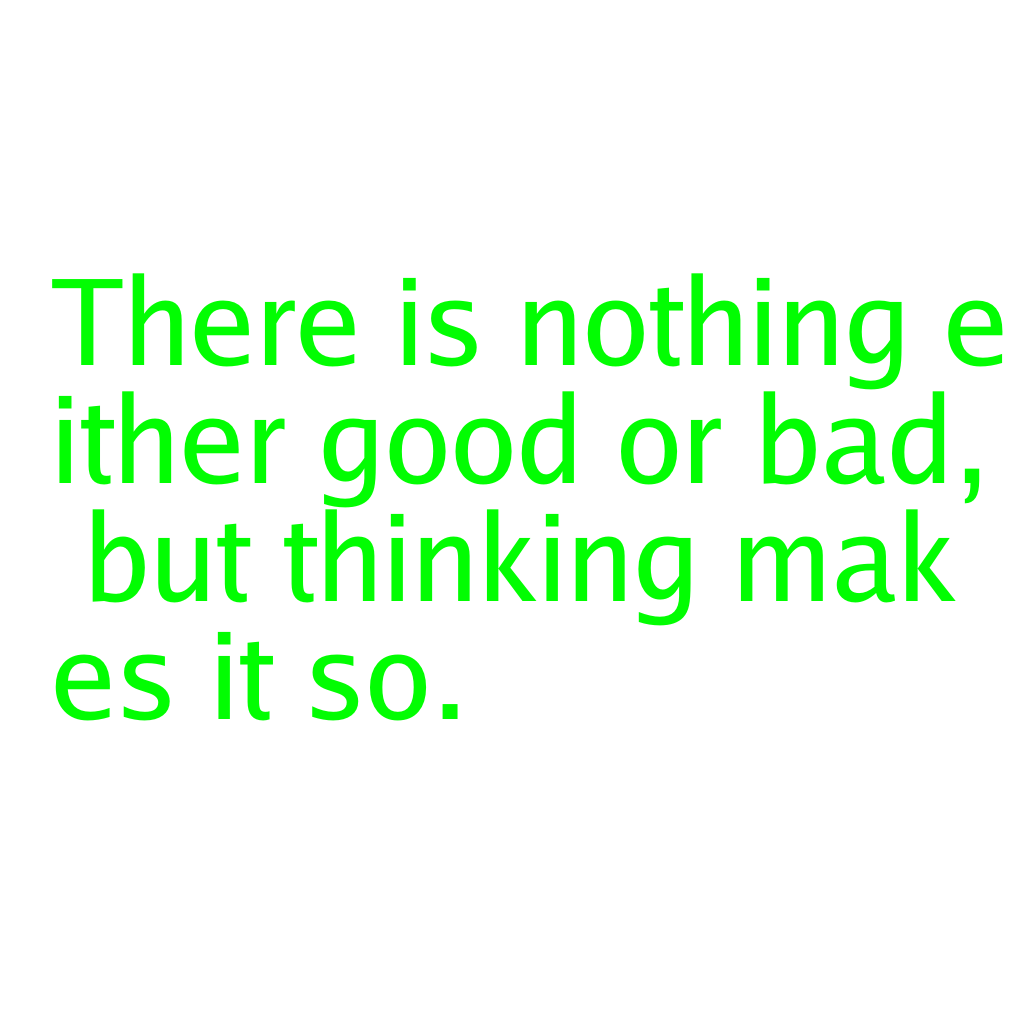
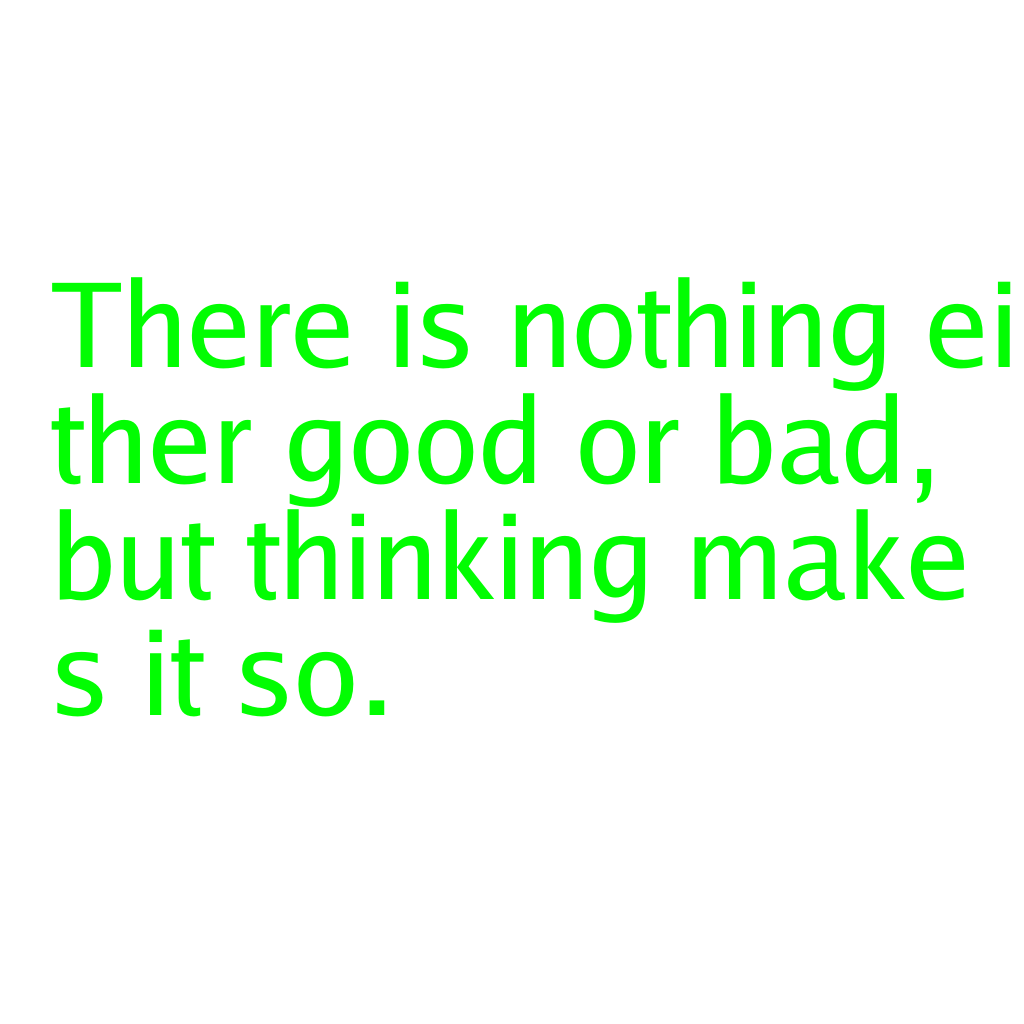
add two options.
- align option.
- just option.

Changed region(s): [[0.0312, 0.25, 1.0, 0.7188], [0.0625, 0.25, 0.3438, 0.375], [0.375, 0.25, 0.4688, 0.375]]

diff --git a/wordimg/word_image.go b/wordimg/word_image.go
@@ -17,6 +17,10 @@ import (
 	"golang.org/x/image/math/fixed"
 )
 
+type Generator interface {
+	GenerateImage(w io.Writer, message string, op ...Option) error
+}
+
 type generator struct {
 	randFunc func() float64
 	colorGen *colorGenerator
@@ -48,34 +52,51 @@ func (g *generator) GenerateImage(w io.Writer, message string, op ...Option) err
 	if err != nil {
 		return err
 	}
-	drawer.drawMessage(message)
+	drawer.drawMessage(message, conf)
 	if err := drawer.writeImage(w); err != nil {
 		return err
 	}
 	return nil
 }
 
-// rand retun 0.7 ~ 1.0.
+// rand retun 0.5 ~ 1.0.
 func (g *generator) rand() float64 {
-	return 0.7 + 0.3*g.randFunc()
+	return 0.5 + 0.5*g.randFunc()
 }
 
-func (g *generator) calcFontSize(message string, width, height int) float64 {
-	wordSize := math.Sqrt(float64(width * height / utf8.RuneCountInString(message)))
-	ww := width / int(wordSize) * int(wordSize)
-	if width == ww {
+func (g *generator) calcFontSize(message string, c config) float64 {
+	wordSize := math.Sqrt(float64(c.width * c.height / utf8.RuneCountInString(message)))
+	ww := c.width / int(wordSize) * int(wordSize)
+	if c.width == ww {
 		return wordSize * g.rand()
 	}
-	return math.Sqrt(float64(ww*height/utf8.RuneCountInString(message))) * g.rand()
+	return math.Sqrt(float64(ww*c.height/utf8.RuneCountInString(message))) * g.rand()
+}
+
+func (*generator) justFontSize(message string, fontSet *truetype.Font, c config) float64 {
+	wordSize := float64(c.width * c.justLine / utf8.RuneCountInString(message))
+	widthFix := fixed.Int26_6(int(float64(c.width*c.justLine)*0.9) << 6)
+
+	for face := truetype.NewFace(fontSet, &truetype.Options{Size: wordSize}); font.MeasureString(face, message) < widthFix; wordSize++ {
+		face = truetype.NewFace(fontSet, &truetype.Options{Size: wordSize})
+	}
+	return wordSize - 1
 }
 
 func (g *generator) prepareDrawer(message string, config config) (drawer *wordDrawer, err error) {
-	// wordSize := math.Sqrt(float64(config.width*config.height/utf8.RuneCountInString(message))) * g.rand()
+	fontSet, err := truetype.Parse(g.font)
+	if err != nil {
+		return nil, err
+	}
+
 	var fontSize float64
-	if config.fontSize > 0 {
+	switch {
+	case config.justLine > 0:
+		fontSize = g.justFontSize(message, fontSet, config)
+	case config.fontSize > 0:
 		fontSize = float64(config.fontSize)
-	} else {
-		fontSize = g.calcFontSize(message, config.width, config.height)
+	default:
+		fontSize = g.calcFontSize(message, config)
 	}
 
 	var col color.RGBA
@@ -85,10 +106,6 @@ func (g *generator) prepareDrawer(message string, config config) (drawer *wordDr
 		col = g.colorGen.randColor()
 	}
 
-	fontSet, err := truetype.Parse(g.font)
-	if err != nil {
-		return nil, err
-	}
 	drawer = &wordDrawer{
 		Drawer: &font.Drawer{
 			Dst: image.NewRGBA(image.Rect(0, 0, config.width, config.height)),
@@ -113,7 +130,7 @@ func (g *generator) prepareDrawer(message string, config config) (drawer *wordDr
 	return
 }
 
-func (d *wordDrawer) drawMessage(message string) {
+func (d *wordDrawer) drawMessage(message string, c config) {
 	var sb strings.Builder
 	for _, char := range message {
 		advance := d.MeasureString(sb.String() + string(char))
@@ -125,6 +142,14 @@ func (d *wordDrawer) drawMessage(message string) {
 		}
 		sb.WriteRune(char)
 	}
+	if c.align == alignLeft {
+		d.DrawString(sb.String())
+		return
+	}
+
+	advance := d.MeasureString(sb.String())
+	paddingLeft := (d.widthFix - advance) / 2
+	d.Dot = d.Dot.Add(freetype.Pt(paddingLeft.Ceil(), 0))
 	d.DrawString(sb.String())
 }
 

diff --git a/wordimg/word_image_test.go b/wordimg/word_image_test.go
@@ -78,6 +78,53 @@ func TestGenerator_GenrateImage(t *testing.T) {
 				err:       nil,
 			},
 		},
+		{
+			"just 1 line",
+			given{
+				message: "goodbye thank you",
+				randI:   0,
+				randF:   0,
+				options: []wordimg.Option{
+					wordimg.WithColor(&color.RGBA{255, 0, 255, 255}),
+					wordimg.WithJustLine(1),
+				},
+			},
+			want{
+				imagePath: "just1line.png",
+				err:       nil,
+			},
+		},
+		{
+			"just 2 line",
+			given{
+				message: "goodbye thank you",
+				randI:   0,
+				randF:   0,
+				options: []wordimg.Option{
+					wordimg.WithColor(&color.RGBA{255, 0, 255, 255}),
+					wordimg.WithJustLine(2),
+				},
+			},
+			want{
+				imagePath: "just2line.png",
+				err:       nil,
+			},
+		},
+		{
+			"text align center",
+			given{
+				message: "good!",
+				randI:   0,
+				randF:   0,
+				options: []wordimg.Option{
+					wordimg.WithAlignCenter(),
+				},
+			},
+			want{
+				imagePath: "align_center.png",
+				err:       nil,
+			},
+		},
 	}
 	rand := rand.New(rand.NewSource(0))
 	for _, tt := range tests {

diff --git a/cmd/server/handler.go b/cmd/server/handler.go
@@ -1,7 +1,6 @@
 package main
 
 import (
-	"io"
 	"log"
 	"math/rand"
 	"net/http"
@@ -12,18 +11,14 @@ import (
 	"github.com/komem3/word_rand_img/wordimg"
 )
 
-type generator interface {
-	GenerateImage(w io.Writer, message string, op ...wordimg.Option) error
-}
-
 type wordImgHandler struct {
-	generator
+	wordimg.Generator
 }
 
 func wordImgHandleGroup(r chi.Router, fontData []byte) {
 	rand := rand.New(rand.NewSource(time.Now().UnixNano()))
 	h := &wordImgHandler{
-		generator: wordimg.NewGenerator(rand, fontData),
+		Generator: wordimg.NewGenerator(rand, fontData),
 	}
 	r.Get("/", h.radnImage)
 }
@@ -69,7 +64,7 @@ func (h *wordImgHandler) radnImage(w http.ResponseWriter, r *http.Request) {
 	}
 
 	w.WriteHeader(http.StatusOK)
-	if err := h.generator.GenerateImage(w, message, options...); err != nil {
+	if err := h.GenerateImage(w, message, options...); err != nil {
 		log.Printf("[ERROR] generate: %+v\n", err)
 		w.WriteHeader(http.StatusInternalServerError)
 		if _, err := w.Write([]byte("internal server error")); err != nil {

diff --git a/wordimg/options.go b/wordimg/options.go
@@ -2,14 +2,22 @@ package wordimg
 
 import "image/color"
 
+type align int
+
+const (
+	alignLeft align = iota + 1
+	alignCenter
+)
+
 type (
 	Option func(*config)
-
 	config struct {
 		width    int
 		height   int
 		color    *color.RGBA
 		fontSize int
+		justLine int
+		align    align
 	}
 )
 
@@ -17,6 +25,7 @@ func newConfig(os ...Option) config {
 	c := config{
 		width:  512,
 		height: 512,
+		align:  alignLeft,
 	}
 	for _, o := range os {
 		o(&c)
@@ -49,5 +58,19 @@ func WithColor(col *color.RGBA) Option {
 func WithFontSize(f int) Option {
 	return func(c *config) {
 		c.fontSize = f
+	}
+}
+
+// WithJustLine specify how many lines.
+func WithJustLine(l int) Option {
+	return func(c *config) {
+		c.justLine = l
+	}
+}
+
+// WithAlignCenter center the text.
+func WithAlignCenter() Option {
+	return func(c *config) {
+		c.align = alignCenter
 	}
 }

diff --git a/wordimg/color.go b/wordimg/color.go
@@ -41,7 +41,7 @@ func (c *colorGenerator) randColor() color.RGBA {
 	}
 	base.G += uint8(ran)
 
-	ran = c.randFunc(50)
+	ran = c.randFunc(randRange)
 	if base.B == 255 {
 		ran *= -1
 	}
